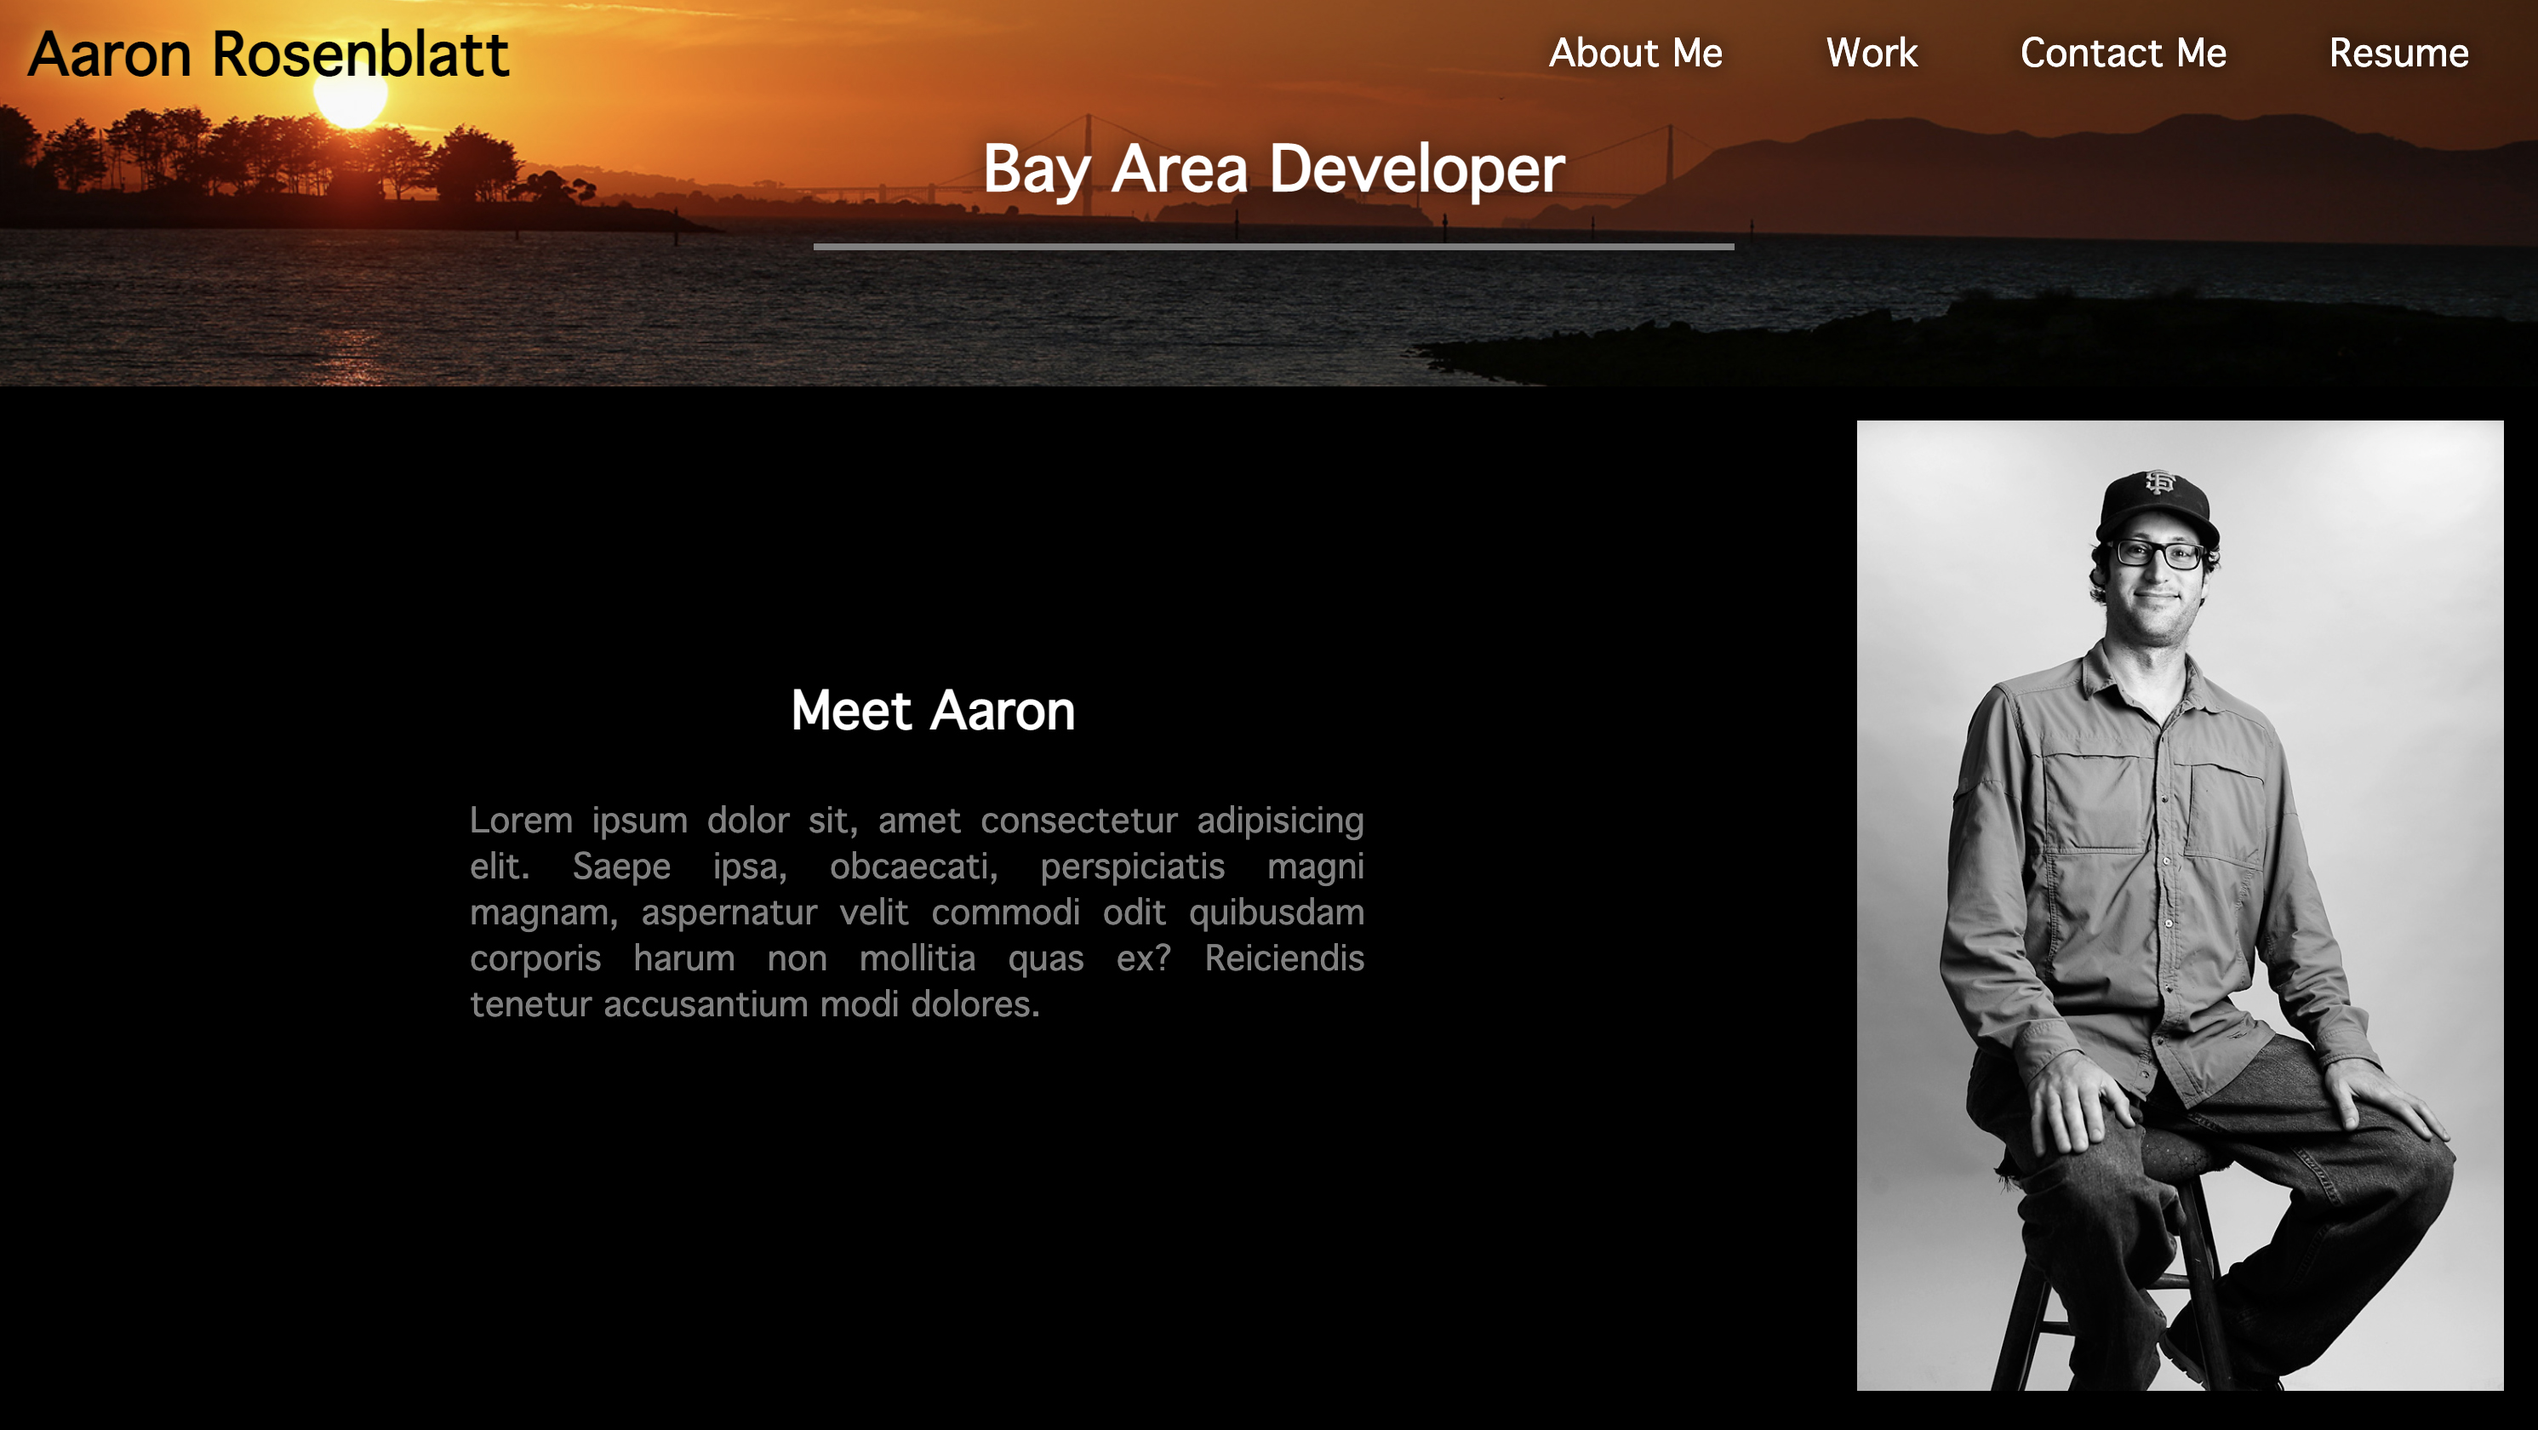
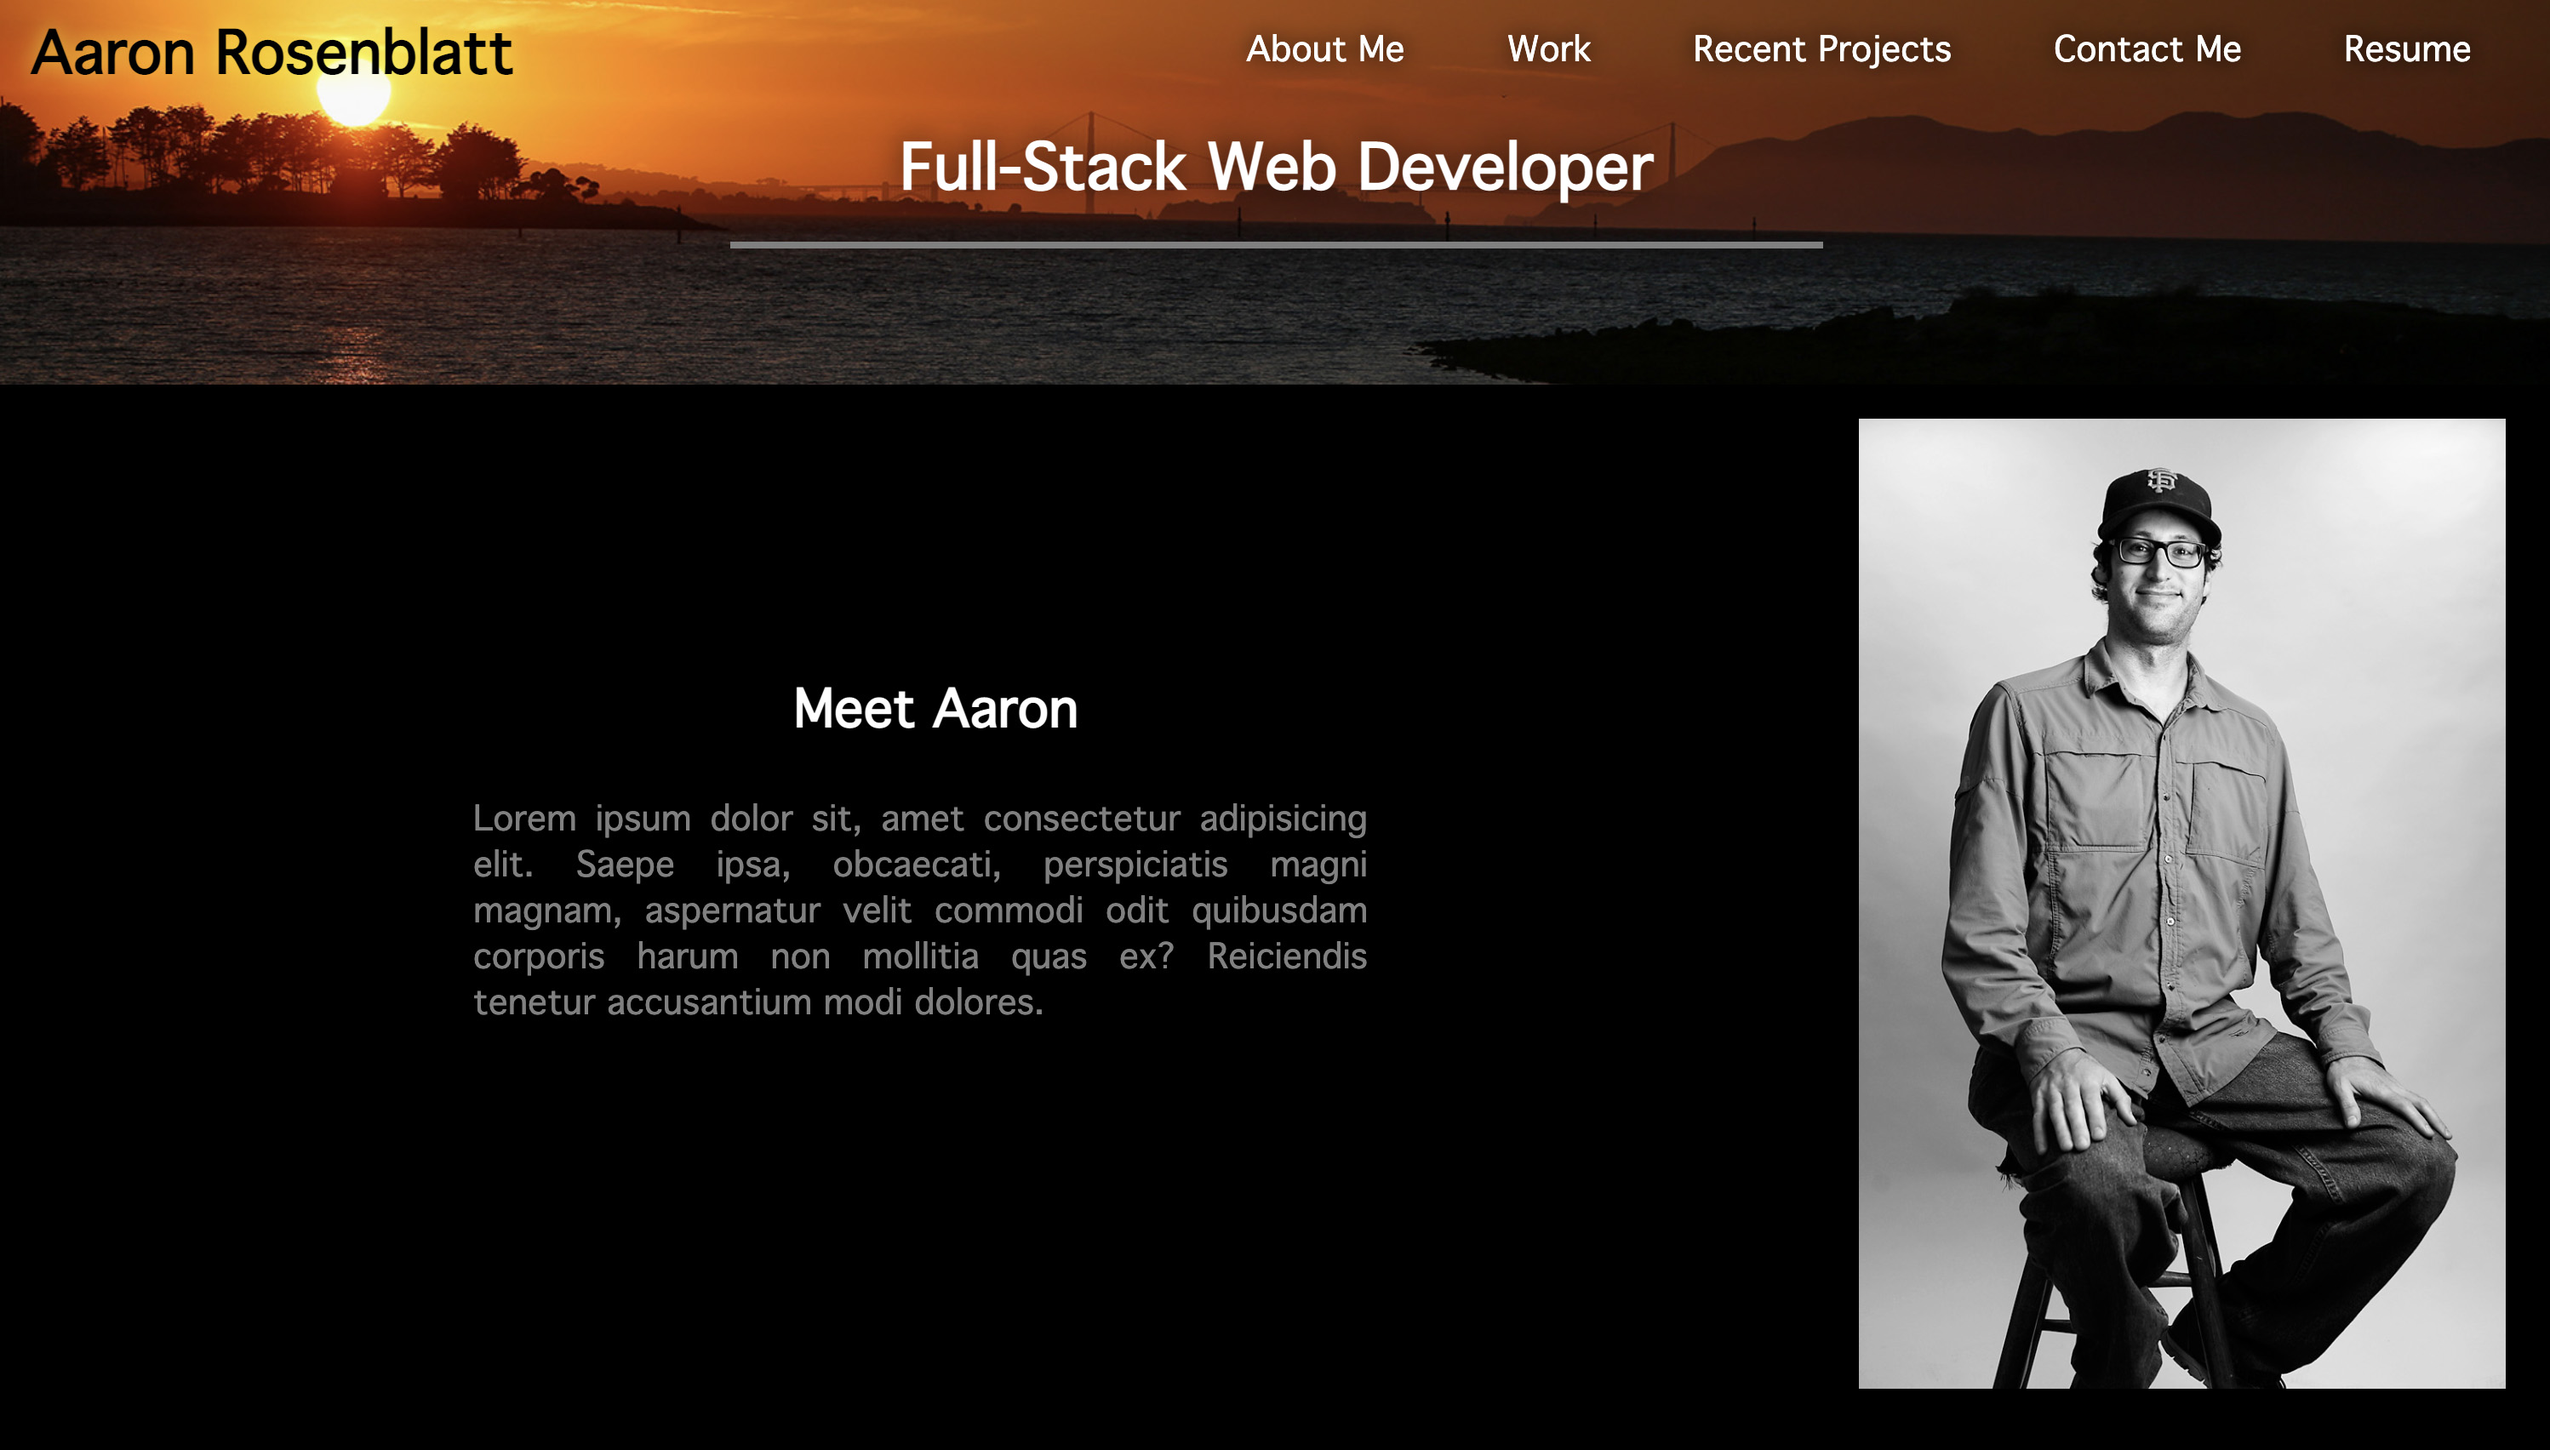
recent projects section

diff --git a/assets/css/style.css b/assets/css/style.css
@@ -59,7 +59,7 @@ header nav ul li {
 header nav ul li a {
     margin: 0 30px;
     font-weight: lighter;
-    font-size: 22px;
+    font-size: 20px;
     text-shadow: 0 0 13px rgba(0, 0, 0, 0.8);
 }
 header nav ul li a:hover {
@@ -250,6 +250,79 @@ header nav ul li a:hover {
     transition: all, 1.5s 0.3s;
 }
 
+/* Styling for Recent Projects section */
+
+.recent-projects {
+    width: 100%;
+    padding: 20px 40px 20px 20px;
+}
+.recent-projects-aaron{
+    text-align: center;
+    padding-top: 30px;
+}
+.recent-projects-aaron h2 {
+    color: var(--secondary-color);
+    font-size: 36px;
+    font-family: Geneva, Helvetica, Arial, sans-serif;
+    text-shadow: 0 0 18px rgba(0, 0, 0, 0.8);
+    margin: 20px 0 60px 0;
+}
+
+/* Begin Styling for Grid in Recent Projects Section */
+
+.recent-projects-grid-wrapper {
+    display: flex;
+    width: 100%;
+    justify-content: center;
+    height: 50%;
+}
+.recent-projects-grid-container {
+    display: grid;
+    grid-template-columns: 1fr, 1fr;
+    grid-template-rows: repeat(2, 1fr);
+    grid-gap: 20px;
+    width: 50%;
+}
+.recent-projects-grid-item {
+    box-shadow: 0 0 16px var(--tertiary-color, 0.7);
+    padding: 1em;
+}
+.recent-projects-img {
+    background-size: cover;
+    opacity: 1;
+    position: relative;
+}
+.recent-projects-box1 {
+    grid-column: 1/span 2;
+    grid-row: 1/span 1;
+    background-image: url("../images/team4music.jpg");
+    position: relative;
+}
+.recent-projects-box1:hover {
+    opacity: 0.6;
+    transition: all, 1.5s 0.3s;
+}
+.recent-projects-box2 {
+    grid-column: 1/span 1;
+    grid-row: 2/span 1;
+    background-image: url("../images/readme-maker.jpg");
+    position: relative;
+}
+.recent-projects-box2:hover {
+    opacity: 0.6;
+    transition: all, 1.5s 0.3s;
+}
+.recent-projects-box3 {
+    grid-column: 2/span 1;
+    grid-row: 2/span 1;
+    background-image: url("../images/portfolio-generator.jpg");
+    position: relative;
+}
+.recent-projects-box3:hover {
+    opacity: 0.6;
+    transition: all, 1.5s 0.3s;
+}
+
 /* styling for Contact section */
 
 .contact {
@@ -331,6 +404,9 @@ li:nth-child(2) {
         list-style: none;
     }
     .work-grid-container {
+        width: 75%;
+    }
+    .recent-projects-grid-container {
         width: 75%;
     }
     footer nav ul {

diff --git a/index.html b/index.html
@@ -20,6 +20,9 @@
                 <a href="#work">Work</a>
             </li>
             <li>
+                <a href="#recent-projects">Recent Projects</a>
+            </li>
+            <li>
                 <a href="#contact-me">Contact Me</a>
             </li>
             <li>
@@ -99,6 +102,39 @@
 </section>
 <!-- End of Work section -->
 
+<!-- Start of Recent Projects section -->
+<section id="recent-projects">
+    <section id="recent">
+        <article id="recent-projects" class="recent-projects-aaron">
+        <h2 class="primary-border">
+            Recent Projects
+        </h2>
+        </article>
+
+        <section class="recent-projects-grid-wrapper">
+            <article class="recent-projects-grid-container">
+                <a href="https://noplur.github.io/team4-10-music/" target=_blank container class="recent-projects-grid-item recent-projects-box1 recent-projects-img" alt="Musicana" title="Musicana">
+                </container>
+                    <div class="box-text">
+                          <h3>Musicana</h3>
+                          <p>JavaScript/jQuery/Bootstrap/Moment.js/HTML/CSS</p>
+                    </div></a>
+                <a href="https://github.com/noplur/Stunning-Readme-Maker" target=_blank container class="recent-projects-grid-item recent-projects-box2 recent-projects-img" alt="Stunning README Maker" title="Stunning README Maker">
+                </container>
+                    <div class="box-text">               
+                        <h4>Stunning README Maker</h4>
+                        <p2>Node.js</p2>              
+                    </div></a>
+                <a href="https://github.com/noplur/portfolio-generator" target=_blank container class="recent-projects-grid-item recent-projects-box3 recent-projects-img" alt="Portfolio Generator" title="Portfolio Generator">
+                </container>
+                    <div class="box-text">
+                        <h4>Portfolio Generator</h4>
+                        <p2>Node.js</p2>
+                    </div></a>
+        </article>
+
+</section>
+        <!-- End of Recent Projects section -->
 </main>
 <!-- End of Main -->
 
